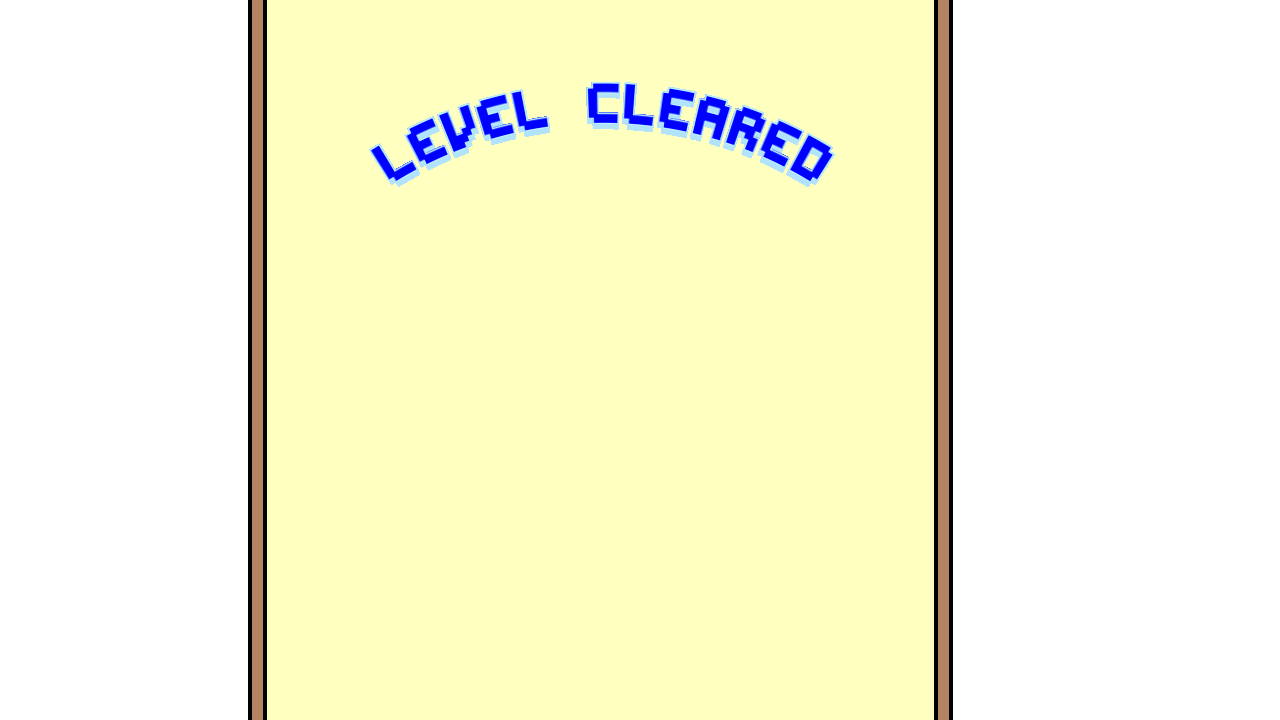
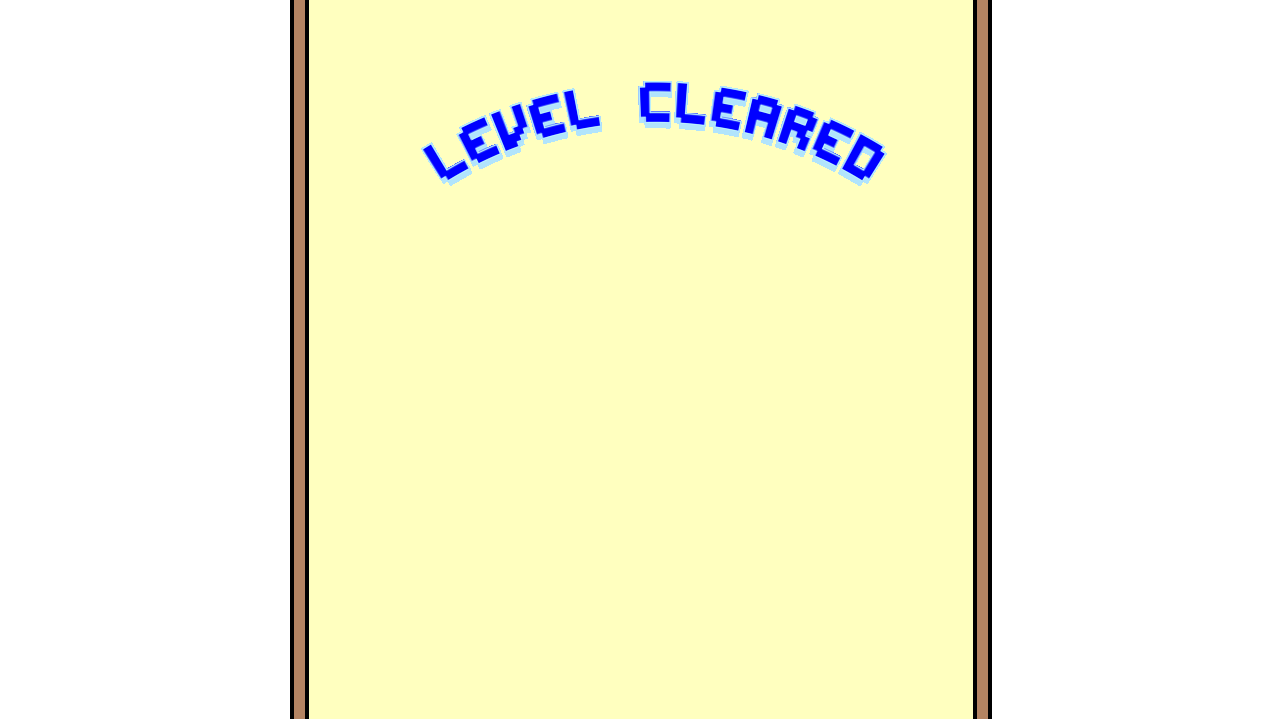
Add level cleared background

Changed region(s): [[0.7188, 0.0, 0.7812, 1.0], [0.1875, 0.0, 0.25, 1.0], [0.2812, 0.0917, 0.6875, 0.275]]

diff --git a/lib/Dinodengzz/Screens/levelcomplete.dart b/lib/Dinodengzz/Screens/levelcomplete.dart
@@ -3,33 +3,40 @@ import 'package:flutter/material.dart';
 class LevelComplete extends StatelessWidget {
   const LevelComplete({
     required this.nStars,
-    super.key,
-    this.onNextPressed,
-    this.onRetryPressed,
-    this.onExitPressed,
-  });
+    required this.onNextPressed,
+    required this.onRetryPressed,
+    required this.onExitPressed,
+    Key? key,
+  }) : super(key: key);
 
   static const id = 'LevelComplete';
 
   final int nStars;
-
-  final VoidCallback? onNextPressed;
-  final VoidCallback? onRetryPressed;
-  final VoidCallback? onExitPressed;
+  final VoidCallback onNextPressed;
+  final VoidCallback onRetryPressed;
+  final VoidCallback onExitPressed;
 
   @override
   Widget build(BuildContext context) {
     return Scaffold(
-      backgroundColor: const Color.fromARGB(210, 229, 238, 238),
-      body: Center(
-        child: Column(
-          mainAxisAlignment: MainAxisAlignment.center,
-          children: [
-            const Text(
-              'Level Completed',
-              style: TextStyle(fontSize: 30),
+      backgroundColor: Colors.transparent,
+      body: Container(
+        decoration: BoxDecoration(
+          image: DecorationImage(
+            image: const AssetImage(
+              "assets/images/Background/Level cleared no bg.png",
             ),
-            const SizedBox(height: 15),
+            fit: BoxFit.fitHeight,
+            colorFilter: ColorFilter.mode(
+              Colors.black.withOpacity(0.5),
+              BlendMode.darken,
+            ),
+          ),
+        ),
+        child: Column(
+          mainAxisAlignment: MainAxisAlignment.end,
+          crossAxisAlignment: CrossAxisAlignment.center,
+          children: [
             Row(
               mainAxisAlignment: MainAxisAlignment.center,
               children: [
@@ -50,31 +57,65 @@ class LevelComplete extends StatelessWidget {
                 ),
               ],
             ),
-            const SizedBox(height: 15),
-            SizedBox(
-              width: 150,
-              child: OutlinedButton(
-                onPressed: nStars != 0 ? onNextPressed : null,
-                child: const Text('Next'),
-              ),
+            SizedBox(height: MediaQuery.of(context).size.height * 0.3),
+            Row(
+              mainAxisAlignment: MainAxisAlignment.center,
+              children: [
+                CircularButton(
+                  onPressed: nStars != 0 ? onNextPressed : null,
+                  imagePath:
+                      'assets/images/DinoDengzz Icon/Next level icon.png',
+                ),
+                CircularButton(
+                  onPressed: onRetryPressed,
+                  imagePath: 'assets/images/DinoDengzz Icon/Restart icon.png',
+                ),
+                CircularButton(
+                  onPressed: onExitPressed,
+                  imagePath:
+                      'assets/images/DinoDengzz Icon/Back to level select icon.png',
+                ),
+              ],
             ),
-            const SizedBox(height: 5),
-            SizedBox(
-              width: 150,
-              child: OutlinedButton(
-                onPressed: onRetryPressed,
-                child: const Text('Retry'),
-              ),
-            ),
-            const SizedBox(height: 5),
-            SizedBox(
-              width: 150,
-              child: OutlinedButton(
-                onPressed: onExitPressed,
-                child: const Text('Exit'),
-              ),
-            ),
+            SizedBox(height: MediaQuery.of(context).size.height * 0.1),
           ],
+        ),
+      ),
+    );
+  }
+}
+
+class CircularButton extends StatelessWidget {
+  final VoidCallback? onPressed;
+  final String imagePath;
+
+  const CircularButton({
+    super.key,
+    required this.onPressed,
+    required this.imagePath,
+  });
+
+  @override
+  Widget build(BuildContext context) {
+    return Container(
+      margin: EdgeInsets.symmetric(
+          horizontal: MediaQuery.of(context).size.width * 0.025),
+      width: MediaQuery.of(context).size.width * 0.096,
+      height: MediaQuery.of(context).size.width * 0.096,
+      decoration: const BoxDecoration(
+        shape: BoxShape.circle,
+      ),
+      child: Material(
+        color: Colors.transparent,
+        child: InkWell(
+          onTap: onPressed,
+          borderRadius: BorderRadius.circular(100),
+          child: Center(
+            child: Image.asset(
+              imagePath,
+              fit: BoxFit.fill,
+            ),
+          ),
         ),
       ),
     );
